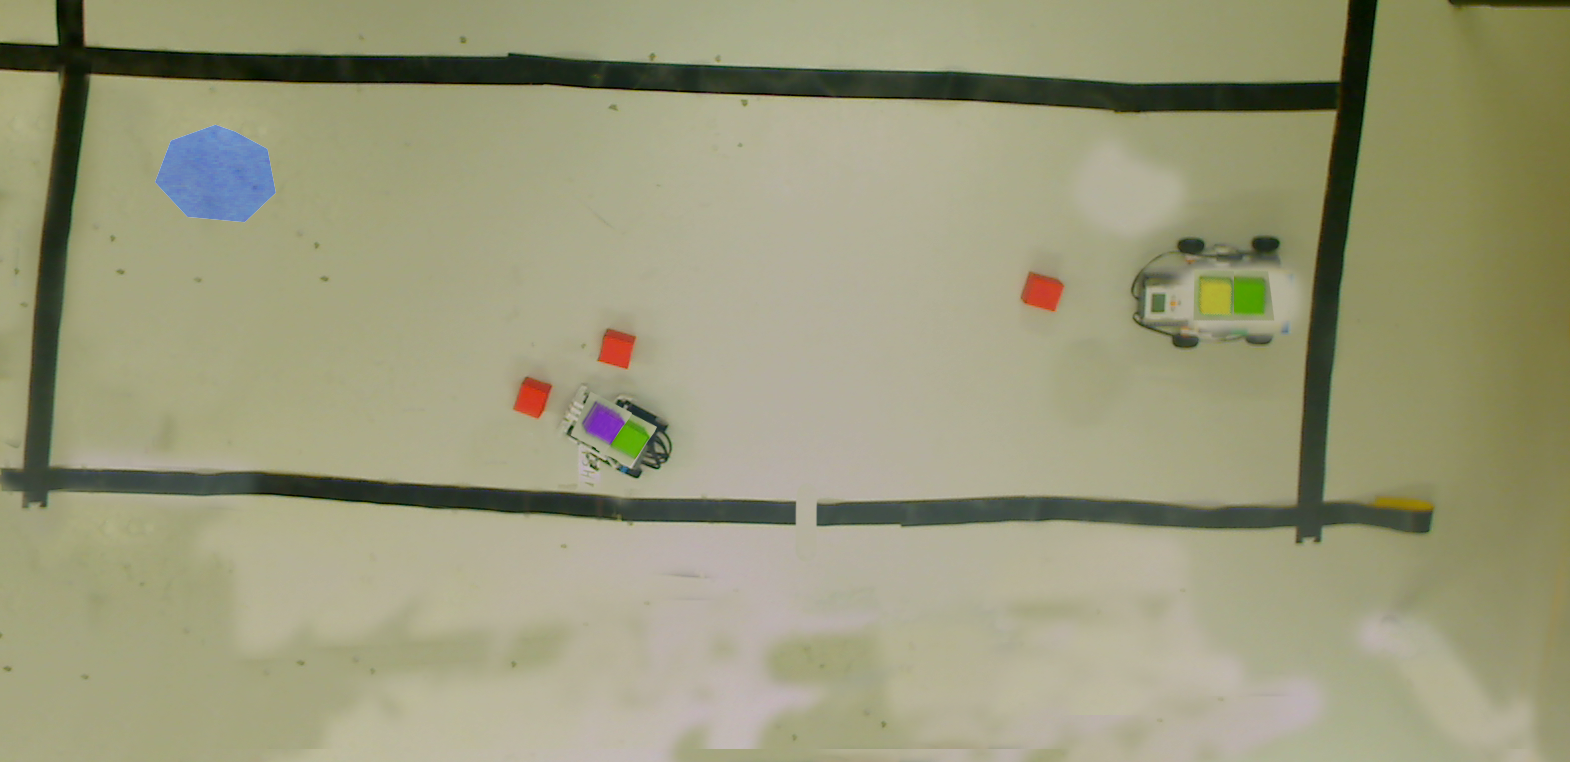
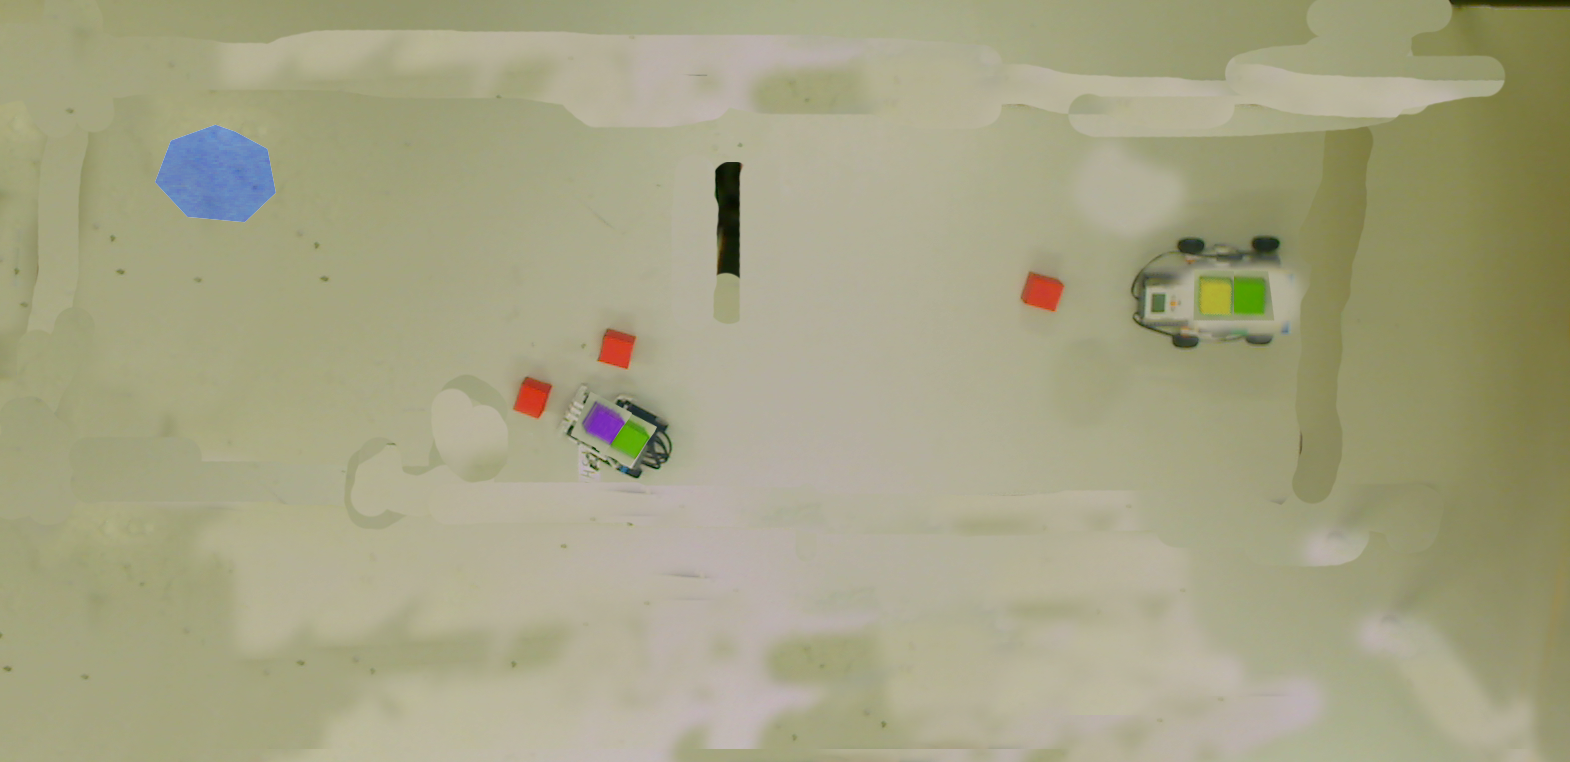
Work on planner

Changed region(s): [[0.0, 0.0, 0.9675, 0.7546], [0.4369, 0.2113, 0.4994, 0.4226]]

diff --git a/Code/v1/WorldProcessing/src/Planning/Planner.cs b/Code/v1/WorldProcessing/src/Planning/Planner.cs
@@ -11,13 +11,15 @@ namespace WorldProcessing.src.Planning
 	public class PathPlannedEventArgs : EventArgs
 	{
 		public NavMesh.NavMeshGenerateResult NavMeshResult { get; private set; }
+		public List<NavVertex> Connectivity { get; private set; }
 		public List<NavVertex> Path { get; private set; }
 		public Planning.Actions.Action TransportRobotAction { get; private set; }
 		public Planning.Actions.Action GuardRobotAction { get; private set; }
 
-		public PathPlannedEventArgs(NavMesh.NavMeshGenerateResult navMeshResult, List<NavVertex> path, Planning.Actions.Action transport, Planning.Actions.Action guard)
+		public PathPlannedEventArgs(NavMesh.NavMeshGenerateResult navMeshResult, List<NavVertex> connectivity, List<NavVertex> path, Planning.Actions.Action transport, Planning.Actions.Action guard)
 		{
 			NavMeshResult = navMeshResult;
+			Connectivity = connectivity;
 			Path = path;
 			TransportRobotAction = transport;
 			GuardRobotAction = guard;
@@ -73,12 +75,68 @@ namespace WorldProcessing.src.Planning
 				//return;
 
 				var path = WorldProcessing.Planning.Searching.AStarSearch.FindPath(start, end, a => a.Vertices /*from edge in a.Edges.First().Edges select edge.center*/,
-																					Util.Maths.Distance, a => 0).ToList();
+																					Util.Maths.Distance, a => 0);
 
-				while (RefinePath(ref path)) ; // initial path is between edge centers, this fits it around bends more snugly
+				if (path == null)
+				{
+					var transportAction = new Actions.WaitAction();
+					var guardAction = new Actions.WaitAction();
+					PathPlannedEvent(this, new PathPlannedEventArgs(results, vertices, null, transportAction, guardAction));
+					return;
+				}
 
-				PathPlannedEvent(this, new PathPlannedEventArgs(results, path, null, null));
+				var pathlist = path.ToList();
+
+				while (RefinePath(ref pathlist)) ; // initial path is between edge centers, this fits it around bends more snugly
+
+				var intersection = FindFirstPathIntersection(pathlist, model.Blocks);
+
+				if (intersection == null)
+				{
+					var transportAction = new Actions.MovementAction(path.First().ToPoint());
+					var guardAction = new Actions.WaitAction();
+					PathPlannedEvent(this, new PathPlannedEventArgs(results, vertices, pathlist, transportAction, guardAction));
+					return;
+				}
+				else
+				{
+					var transportAction = new Actions.WaitAction();
+					
+					
+					
+					var guardAction = new Actions.WaitAction();
+
+					PathPlannedEvent(this, new PathPlannedEventArgs(results, vertices, pathlist, transportAction, guardAction));
+					return;
+				}
 			}
+		}
+
+		private Block FindFirstPathIntersection(List<NavVertex> path, List<Block> blocks)
+		{
+			var edges = new List<NavEdge>();
+
+			for (int i = 0; i < path.Count - 1; i++)
+			{
+				edges.Add(new NavEdge(path[i], path[i + 1]));
+			}
+
+			foreach (var edge in edges)
+				foreach (var block in blocks)
+				{
+					var pos = new NavVertex(block.Position.X, block.Position.Y);
+
+					var projection = Util.Nav.Project(pos, edge);
+
+					var distance = Util.Maths.Distance(pos, projection);
+
+					var Margin = 50; // size of robot + block (/2)
+
+					if (distance < Margin)
+						return block;
+				}
+
+			return null;
 		}
 
 		private void InsertIntoMesh(List<NavPolygon> mesh, NavVertex vertex)
@@ -110,7 +168,7 @@ namespace WorldProcessing.src.Planning
 				return false;
 
 			// width of vehicle ?
-			var Margin = 20;
+			var Margin = 50;
 
 			// move vertices to corners
 			for (int i = 1; i < path.Count - 1; )
@@ -305,9 +363,9 @@ namespace WorldProcessing.src.Planning
 			{
 				result.Add(edge.center);
 				foreach (var pol in edge.Polygons)
-					foreach (var vert in pol.Vertices)
-						if (vert != edge.center)
-							edge.center.Vertices.Add(vert);
+					foreach (var edge2 in pol.Edges)
+						if (edge2 != edge)
+							edge.center.Vertices.Add(edge2.center);
 			}
 
 			return result;

diff --git a/Code/v1/WorldProcessing/src/Planning/Actions/WaitAction.cs b/Code/v1/WorldProcessing/src/Planning/Actions/WaitAction.cs
@@ -8,28 +8,10 @@ namespace WorldProcessing.src.Planning.Actions
     /// </summary>
     public class WaitAction : Action
     {
-        public Action Dependency; //this is probably going to function differently lol
-
-        public WaitAction(Action dependency)
+        public WaitAction()
         {
             // Necessary, will get NullReferenceExceptions otherwise
-            this.Dependency = dependency;
 			this.Type = ActionType.Wait;
-        }
-
-        public override void Start()
-        {
-            base.Start();
-            if (Dependency.State == ActionState.Complete)
-                this.State = ActionState.Complete;
-            //Register event listener
-            Dependency.ActionStateChanged += DependencyStateListener;
-        }
-
-        private void DependencyStateListener(object sender, EventArgs e)
-        {
-            if (((Action)sender).State == ActionState.Complete)
-                this.State = ActionState.Complete;
         }
     }
 }

diff --git a/Code/v1/WorldProcessing/src/Interface/ImagingWindow.xaml.cs b/Code/v1/WorldProcessing/src/Interface/ImagingWindow.xaml.cs
@@ -114,7 +114,9 @@ namespace WorldProcessing
 					setImageBox(geometryImageBox, Draw.Geometry(originalImage, navMeshResult.Geometry));
 					setImageBox(trianglesImageBox, Draw.Triangles(originalImage, navMeshResult.Trimesh));
 					setImageBox(navMeshImageBox, Draw.NavMesh(originalImage, navMeshResult.NavMesh));
-					setImageBox(pathImageBox, Draw.Path(originalImage, args.Path));
+
+					if (args.Path != null)
+						setImageBox(pathImageBox, Draw.Path(originalImage, args.Path));
 				}));
 		}
 

diff --git a/Code/v1/WorldProcessing/src/Representation/Obstacle.cs b/Code/v1/WorldProcessing/src/Representation/Obstacle.cs
@@ -12,6 +12,7 @@ namespace WorldProcessing.Representation
 		public Obstacle(Polygon polygon)
 		{
 			Polygon = polygon;
+			Position = polygon.Centroid;
 		}
 	}
 
@@ -27,7 +28,7 @@ namespace WorldProcessing.Representation
 
 	public class Block : Obstacle
 	{
-		public Block(Polygon polygon) : base(polygon) { }
+		public Block(Polygon polygon) : base(polygon) {}
 
 		public override Constants.ObjectType ObjectType
 		{

diff --git a/Code/v1/WorldProcessing/src/ImageAnalysis/Extract.cs b/Code/v1/WorldProcessing/src/ImageAnalysis/Extract.cs
@@ -50,7 +50,7 @@ namespace WorldProcessing.ImageAnalysis
 					{
 						case Constants.ObjectType.Wall:
 							var wall = contour.ApproxPoly(10);
-							if (wall.Area > 2000) // because wall is large and black, this ignores shadowy areas
+							if (wall.Area > 1000) // because wall is large and black, this ignores shadowy areas
 								result.Add(wall);
 							break;
 						case Constants.ObjectType.Block:

diff --git a/Code/v1/WorldProcessing/src/Planning/NavMesh/NavMesh.cs b/Code/v1/WorldProcessing/src/Planning/NavMesh/NavMesh.cs
@@ -71,7 +71,7 @@ namespace WorldProcessing.src.Planning
 						continue;
 
 					// width of vehicle ?
-					var M = 20;
+					var M = 50;
 
 					// TODO: Something about this is not yet working correctly. Firstly, the > 0.001 is necessary because sometimes
 					// the distance is super tiny (like 10^-13) but the edge involved should actually not be removed.

diff --git a/Code/v1/WorldProcessing/src/Vision/MockInputStream.cs b/Code/v1/WorldProcessing/src/Vision/MockInputStream.cs
@@ -7,7 +7,7 @@ namespace WorldProcessing.Vision
 {
 	public class MockInputStream : InputStream
 	{
-		private const string filename = "images/foto2edit1.png";
+		private const string filename = "images/foto2edit3.png";
 		private Image<Bgr, byte> image;
 
 		protected Thread workerThread;
